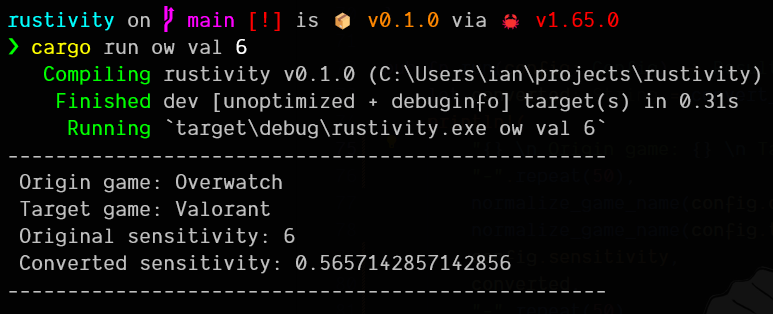
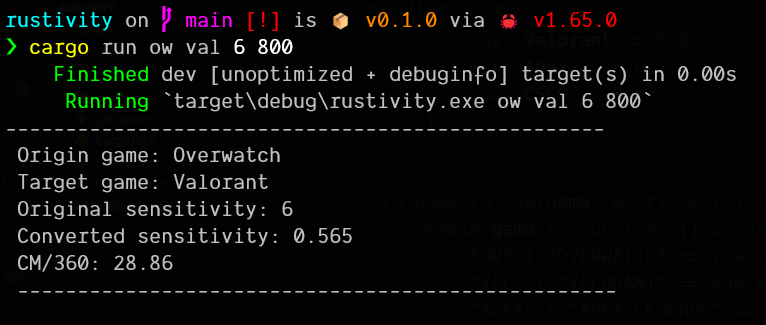
:memo: Update readme

diff --git a/README.md b/README.md
@@ -6,11 +6,17 @@ A simple console application for converting sensitivity across games.
 
 1. Install Rust [Here](https://doc.rust-lang.org/book/ch01-01-installation.html).
 
-2. Navigate to the local repository location.
+2. Clone this repository.
 
-3. `cargo run <origin game> <target game> <sensitivity>`
+3. Navigate to the local repository location.
 
-4. Click heads with your newly converted sensitivity.
+4. `cargo run <origin game> <target game> <sensitivity> <DPI>`
+   <br>
+   _optional `<new DPI>` can be added to the end_
+   <br>
+   _view figure below for example_
+
+5. Click heads with your newly converted sensitivity.
 
 <hr>
 
@@ -19,11 +25,19 @@ Example figure:
 
 <hr>
 
+## Supported Games
+
+```md
+Valorant, Overwatch, CS:GO, Apex
+```
+
 ## TODO
 
 -   [x] Convert sensitivity across my favourite games
+-   [x] Param options for DPI
+-   [x] Calculate CM/360
+-   [ ] Param options for FOV
 -   [ ] Add more supported games and yaw values
--   [ ] Param options for DPI & FOV
 
 ## About
 
